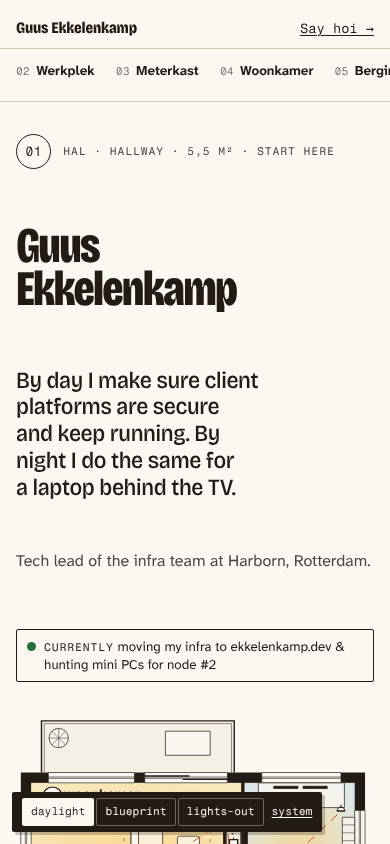
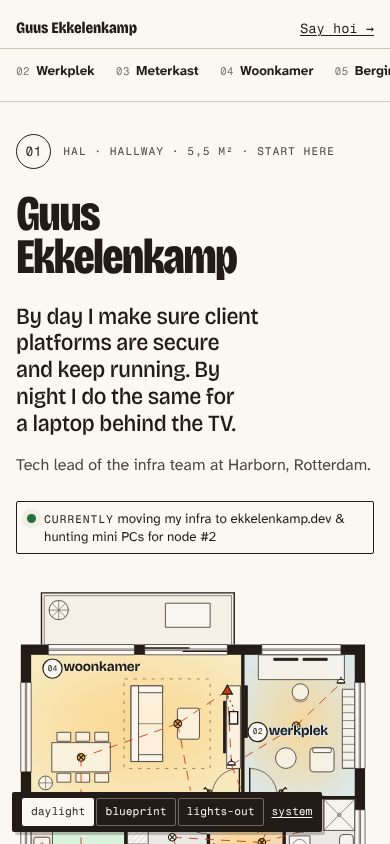
Review hub: final scorecard, recommendation and real font names
Scores reflect the reviewed directions and the narrowed audiences.
Also fixes the checklist layout breaking on inline code.

Claude-Session: https://claude.ai/code/session_01MZiGAcmWGZMW18cgyC5YR7

Changed region(s): [[0.0308, 0.2156, 0.9538, 1.0], [0.7385, 0.5237, 0.9231, 0.5545], [0.8615, 0.5853, 0.8923, 0.6161]]

diff --git a/index.html b/index.html
@@ -125,8 +125,8 @@
   .cols ul, .cols ol { padding-left: 1.2em; display: grid; gap: var(--space-3xs); }
 
   .checklist { list-style: none; padding: 0; display: grid; gap: var(--space-2xs); max-width: 72ch; }
-  .checklist li { display: grid; grid-template-columns: 1.5rem 1fr; gap: var(--space-xs); }
-  .checklist li::before { content: ""; width: 1rem; height: 1rem; border: 1.5px solid var(--line-strong); margin-top: 0.3em; }
+  .checklist li { position: relative; padding-left: 2.25rem; }
+  .checklist li::before { content: ""; position: absolute; left: 0; top: 0.3em; width: 1rem; height: 1rem; border: 1.5px solid var(--line-strong); }
 
   .foot { padding-block: var(--space-xl); display: flex; flex-wrap: wrap; justify-content: space-between; gap: var(--space-s); color: var(--ink-subtle); }
 }
@@ -170,7 +170,7 @@
 
     <section class="section" aria-labelledby="score-title">
       <h2 id="score-title"><span class="label">§2</span> Scorecard</h2>
-      <p style="max-width:68ch;color:var(--ink-muted);margin-bottom:var(--space-m)">My honest first read against the five criteria in the brief (1–5). It's a starting point for the discussion, not a verdict. Fill in your own.</p>
+      <p style="max-width:68ch;color:var(--ink-muted);margin-bottom:var(--space-m)">My read after reviewing all five, scored 1–5 against the criteria in the brief and weighted for its audiences: peers and tech leads, recruiters, friends. Each direction’s README has its own self-score. It's a starting point, not a verdict.</p>
       <div class="table-wrap">
         <table>
           <thead><tr><th scope="col">Direction</th><th scope="col">Recognisable</th><th scope="col">Credible</th><th scope="col">Personal</th><th scope="col">Durable</th><th scope="col">Buildable</th><th scope="col">Best for</th></tr></thead>
@@ -190,7 +190,7 @@
       <ul class="checklist">
         <li>Pick a direction (or a mix) and an option. Leave dark mode to <code>prefers-color-scheme</code>, or offer a manual switch?</li>
         <li>Confirm the <code>[CONFIRM]</code> items in CONTENT.md: since when, the security framework(s), which clients may be named, Quizmaster's stack, contact address.</li>
-        <li>Pick the hero one-liner: A ("better uptime"), B ("fifteen services, lid shut") or C ("I'll just automate that").</li>
+        <li>Pick the hero one-liner: A ("secure by day, a laptop behind the TV by night"), B ("fifteen services, lid shut") or C ("how it's built, where it runs, who gets in").</li>
         <li>Real home automations and devices for §4.7, to replace the placeholders.</li>
         <li>Photos: the laptop behind the TV, the Zigbee stick on its extension cable, the wall panel, and one of you.</li>
         <li>Is <em>huisjes</em> (the house hunt) public-OK, or does it stay off the site?</li>
@@ -213,35 +213,35 @@ const DIRS = [
     options: [["paper","#f3efe6","Paper"],["night-shift","#1c1b19","Night shift"],["hi-vis","#d7f34a","Hi-vis"]] },
   { slug: "02-floor-plan", name: "Plattegrond", nl: "The site as a floor plan of a smart home",
     blurb: "The hero is a drawn floor plan. Rooms are the navigation: the meterkast holds the homelab, the living room holds the home automation, and a Zigbee mesh runs through the walls.",
-    fonts: "Bricolage Grotesque · Fragment Mono",
+    fonts: "Bricolage Grotesque · Atkinson Hyperlegible Next · Fragment Mono",
     options: [["daylight","#f6f1e7","Daylight"],["blueprint","#1f3fae","Blueprint"],["lights-out","#15151a","Lights out"]] },
   { slug: "03-poster", name: "Affiche", nl: "Rotterdam editorial poster, type as image",
     blurb: "Dutch graphic-design confidence. Giant variable-width type, numbers as graphics (16 GB as colour fields, a huge 0 clogs found), a strict grid broken on purpose.",
-    fonts: "Anybody (wdth 50–150) · text serif",
+    fonts: "Anybody (wdth 50–150) · Newsreader · IBM Plex Mono",
     options: [["rotterdam","#e3261c","Rotterdam"],["polder","#3d9a4a","Polder"],["nachtdruk","#ff3d9a","Nachtdruk"]] },
   { slug: "04-zine", name: "Zine", nl: "Risograph DIY zine, two-ink overprint",
     blurb: "A home-printed zine about building things at home: two-ink overprint, stickers, tape, hand-drawn arrows and margin notes, with a disciplined grid underneath.",
-    fonts: "Fat display · Atkinson Hyperlegible · Shantell Sans",
+    fonts: "Bagel Fat One · Atkinson Hyperlegible Next · Shantell Sans",
     options: [["fluor-pink-teal","#ff5ea8","Pink & teal"],["yellow-blue","#ffd23f","Yellow & blue"],["nachtdruk","#1d1b1f","Nachtdruk"]] },
   { slug: "05-wall-panel", name: "Wandpaneel", nl: "The site as a home-dashboard wall panel",
     blurb: "A status interface for a person: Rotterdam time, where Guus probably is, Argo sync state, the next finder run, and rover clogs found: 0. Every tile opens into the full story.",
-    fonts: "UI grotesk · mono numerals",
+    fonts: "Onest · Martian Mono (wdth)",
     options: [["daylight","#f4f2ee","Daylight"],["oled","#000000","OLED"],["e-ink","#e7e6e1","E-ink"]] },
 ];
 
 const SCORES = [
   // [recognisable, credible, personal, durable, buildable, bestFor]
-  [4, 5, 4, 5, 5, "Peers & tech leads; the safest strong choice"],
-  [5, 4, 5, 3, 3, "Maximum memorability; the home-automation story"],
-  [5, 3, 3, 4, 4, "Designers & agencies; a Rotterdam identity"],
-  [4, 3, 5, 3, 3, "Personality first; friends & the homelab crowd"],
-  [5, 4, 5, 3, 3, "Show-don't-tell: a live product feel"],
+  [4, 5, 4, 5, 5, "Tech leads & recruiters. The safest strong choice, and it scales to any number of projects"],
+  [5, 4, 5, 3, 3, "Maximum memorability. Strongest as the homelab/home-automation page"],
+  [5, 4, 3, 3, 4, "A loud Rotterdam identity. Can read as designer more than tech lead"],
+  [5, 3, 4, 2, 4, "Personality first. Friends and the homelab crowd love it; CTOs may not"],
+  [4, 5, 5, 3, 4, "Show, don't tell. The same-rule-at-home links tie the day job to the lab"],
 ];
 
 const MIXES = [
-  { h: "If you pick one", body: "<p><strong>01 Spec Sheet</strong> is the most durable: it scales to any number of projects, makes depth believable, and builds as a fast static site. Push its label-tape humour so it stays young.</p>" },
-  { h: "Best mixes", body: "<ul><li><strong>01 system + 05 hero</strong>: the datasheet discipline, opened by a live wall panel.</li><li><strong>03 type + 01 tables</strong>: poster-scale headlines over precise spec sheets.</li><li><strong>02 plan as the homelab page only</strong>: the floor plan as a case-study visual inside 01 or 03.</li></ul>" },
-  { h: "What every option shares", body: "<ul><li>One copy deck, one token contract, one component inventory</li><li>Fluid type 360→1440, 12/6/4 grid, 4px spacing</li><li>WCAG 2.2 AA (body AAA), reduced motion, no JS needed</li><li>≤ 50 KB HTML+CSS, ≤ 15 KB JS, 0 third parties</li></ul>" },
+  { h: "If you pick one", body: "<p><strong>01 Spec Sheet.</strong> Of the five it fits a tech lead infra best: precise, calm, credible for CTOs and recruiters, and still funny in the details (errata, the bill of materials, the declaration of conformity). It is also the easiest to keep growing.</p>" },
+  { h: "Best mixes", body: "<ul><li><strong>01 system + 05 hero</strong>: the datasheet as the site, opening on a live <em>Guus is at Harborn</em> panel.</li><li><strong>01 site + 02 homelab page</strong>: the floor plan as the visual of the home-automation case study only.</li><li><strong>03 type in 01</strong>: the width axis of Anybody for big headlines on top of the spec-sheet tables.</li></ul>" },
+  { h: "What every option shares", body: "<ul><li>One copy deck, one token contract, one component inventory</li><li>Fluid type 360→1440, 12/6/4 grid, 4px spacing</li><li>Measured contrast per option, reduced motion, readable without JS</li><li>No horizontal scroll at 320px, no console errors</li></ul>" },
 ];
 
 const root = document.getElementById("directions");

diff --git a/design/directions/02-floor-plan/plattegrond.css b/design/directions/02-floor-plan/plattegrond.css
@@ -208,9 +208,9 @@
     .site-nav a { grid-template-columns: auto auto; }
     .site-header__in .hoi-small { display: inline-flex; }
     .mark__sheet { display: none; }
-    .hero__grid { row-gap: 0; }
+    .hero .hero__grid { row-gap: 0; }
     .hero__text { display: contents; }
-    .hero__plan { order: 1; margin-top: var(--space-l); }
+    .hero .hero__plan { order: 1; margin-top: var(--space-l); }
     .roomlist { order: 2; }
   }
   .hoi-small { display: none; margin-inline-start: auto; font-family: var(--font-mono); font-size: var(--step--1); padding: 0.6rem 0; }

diff --git a/design/directions/02-floor-plan/README.md b/design/directions/02-floor-plan/README.md
@@ -1,0 +1,91 @@
+# 02 · Plattegrond (floor plan)
+
+## Concept
+
+The site is Guus's home, drawn as an architectural floor plan seen from above. The hero is a
+plan of a plausible Dutch apartment (poché walls, door swings, windows, furniture, dimensions in
+mm, areas in m² with a decimal comma), and the rooms are the navigation: the **hal** is the
+intro, the **werkplek** (the study, the biggest room after the living room) is the day job, the
+**meterkast** (the Dutch utility cupboard by the front door) is the homelab, the **woonkamer** is
+home automation, the **berging** downstairs holds six boxes of side projects, the **keuken** is
+how he works and what's in the pantry, and the **voordeur** is the contact. Zigbee devices are
+drawn in their rooms with a dashed mesh back to the coordinator behind the TV, and the light
+switches work. The plan is labelled "not to scale, not my actual address".
+
+## Why it fits Guus
+
+The star project is a house that runs itself, and the day job is deciding how systems are built,
+where they run and who gets in. A floor plan is literally that: a drawing of who can go where.
+It is specific to a person who automates his home, it's a little bit Dutch, and the humour comes
+from the content (the homelab in the meterkast, side projects in boxes, a "last phone leaves"
+button that switches the plan off).
+
+## The options (tokens only, `data-option` on `<html>`)
+
+| Option | What it is | Pick it when |
+|---|---|---|
+| `daylight` (default light) | Warm cartridge paper, graphite linework, architect's pastel colour codes per room, one tomato accent | The default. Clearest, most "architect's drawing" |
+| `blueprint` | A diazo/cyanotype print: Prussian-blue paper with grain and tonal wash, white linework, marker-yellow accent | If you want it to feel more like a print than a page; strongest single image |
+| `lights-out` (default dark) | The evening plan: dark rooms, lit rooms glow amber; the "everything off when the last phone leaves" automation becomes visible | Visitors who prefer dark; the best showcase for the light-switch interaction |
+
+## Feedback rounds applied
+
+- No laptop brand or model anywhere ("an old laptop", "second-hand laptop", "11th-gen Intel").
+- The day job has the same weight as the homelab: the **werkplek** became the large north-east
+  room (13,1 m², was a 7,4 m² box room) and gets a full-size section placed right before the
+  homelab: one title fact (**Tech lead · Infra team**), the intro, and the three areas of the job
+  (Security / Cloud & platform / Architecture) drawn as a *programma*: three rooms in one walled
+  block with doors between them. A doorway line ("Same rules, smaller blast radius") leads into
+  the meterkast. Security has its own shelf in the toolbox.
+- Security, cloud and architecture are presented as areas of the job, never as titles.
+
+## What's risky
+
+- **The concept can become a costume.** It works because it is drawn correctly; a sloppy plan
+  would read as a gimmick. Any change to the plan needs someone who cares about line weights.
+- **The plan is a dense image on phones.** Below 600px it crops to the apartment, hides
+  annotations and dimensions, and enlarges the room tags; the room schedule under it is the real
+  navigation. It's good, not as good as desktop.
+- **Dutch room names** are flavour. Every one has its English beside it, but a non-Dutch reader
+  could still find "meterkast" a hurdle; the one-line explanation does the work.
+- The illustrative plan could be read as a real address. It's labelled twice as not.
+
+## How it scales to 10+ projects
+
+New side projects become new boxes in the berging (numbered *dozen*; the compact grid takes any
+number). A new big topic becomes a new room: the plan has a balcony and a *zolder* is still
+available. Case studies can get their own *detail* drawings (like Detail 04, the TV wall) and
+section drawings (like Doorsnede A–A), which is a format that grows without new components.
+
+## Build notes
+
+- **Astro components:** `SiteHeader`, `FloorPlan` (generated SVG + room data from a content
+  collection: rooms, areas, devices, mesh), `KeyPlan` (one `<symbol>`, current room via a CSS
+  variable on `<use>`), `RoomHeader`, `RoomSchedule` + `LightSwitch`, `StatusChip`, `NowList`,
+  `RoleFacts`, `Programme`, `Bridge`, `SpecTable`, `RamFloor`, `SectionDrawing`, `Decision`,
+  `Revision`, `ProjectBox` (featured/compact), `Tags`, `Principle`, `Pantry`, `Footer` +
+  `TitleBlock`, `Photo`.
+- The plan is generated from data (in the mock by a small Node script: rooms as polygons, a
+  `door()` helper that computes swing arcs, windows, devices, mesh). In Astro that becomes a
+  build-time component, so the plan stays editable as data, not as hand-edited path soup.
+  The woonkamer detail is a static cropped copy of the plan art (`<use>` can't take the
+  document's styles).
+- **Fonts to self-host** (3 files): Bricolage Grotesque (variable: opsz, wdth, wght), Atkinson
+  Hyperlegible Next (variable wght; roman only in production), Fragment Mono (regular). Subset
+  Latin + Latin-ext. Preload only Bricolage.
+- **JS (~4 KB, optional):** option switch, room lights (buttons with `aria-pressed`, mirrored in
+  the plan), schedule-row ↔ plan hover sync, compact plan crop on phones, current room in the
+  nav. Without JS: rooms are plain links, the plan shows a default evening state, switches
+  are hidden.
+- Weight: the hero plan inline is ~23 KB of SVG (≈5 KB gzipped), the detail copy another ~19 KB.
+  In production the detail could be a cropped static SVG file, lazy loaded.
+
+## Self-score (BRIEF §7, honest)
+
+| Criterion | Score | Why |
+|---|---|---|
+| Recognisable | 5 | Nobody else's portfolio opens on a floor plan with working light switches |
+| Credible | 4 | The plan earns trust through accuracy, and the spec schedule, section drawing and revisions carry real depth. The concept could still make a CTO smile before they read |
+| Personal | 5 | Home automation, the meterkast, a Dutch flat, the berging with bikes: only Guus |
+| Durable | 3 | Architectural conventions age well, but a metaphor this strong can feel heavy by year two; the system (schedules, notes, revisions) survives without the plan |
+| Buildable | 4 | Static SVG + CSS + 4 KB of JS. The plan generator is the only bespoke part |
